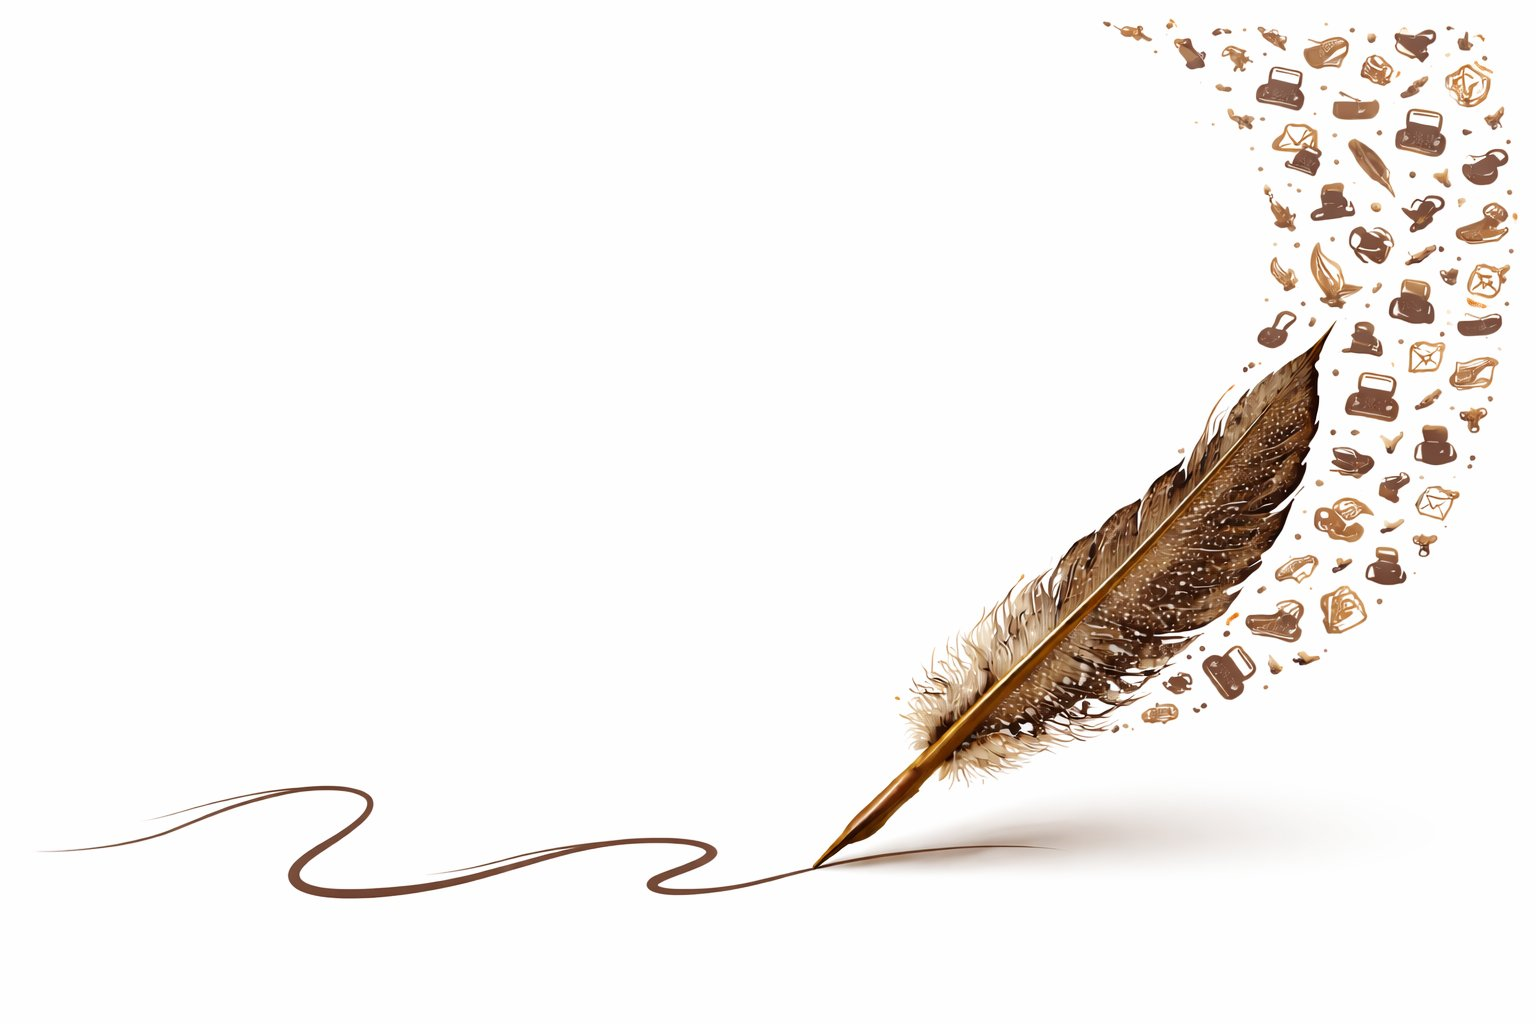
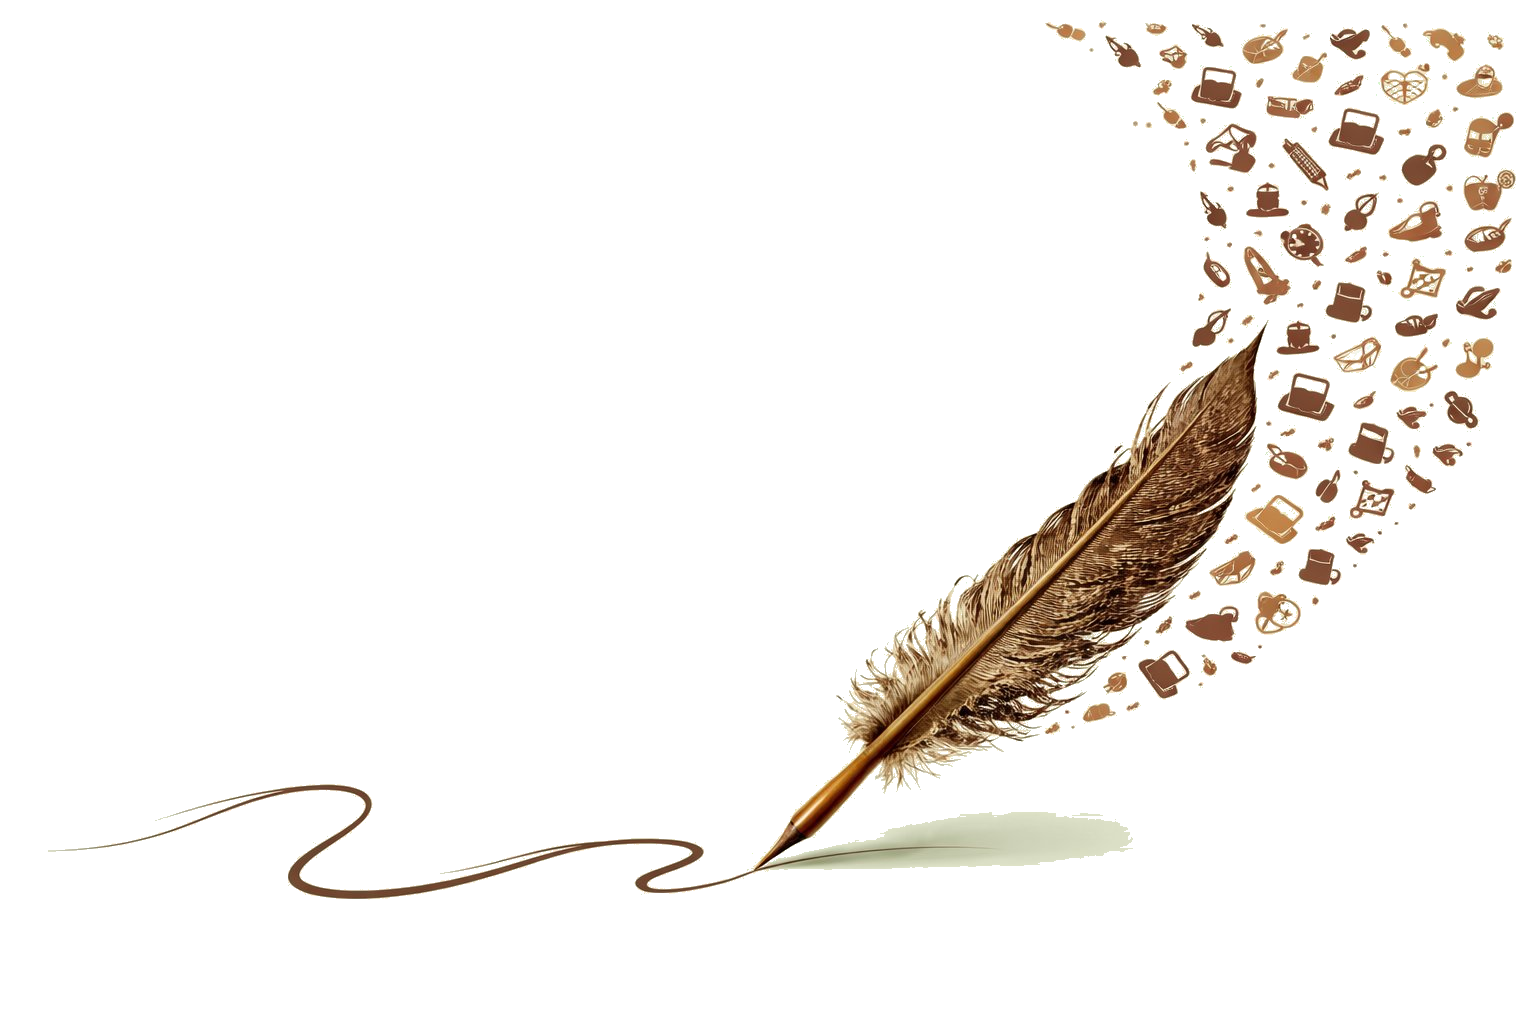
mise à jours

diff --git a/assets/styles.css b/assets/styles.css
@@ -1,33 +1,33 @@
 /* ============================================
    LA PLUME ARTISTE - Design Nature & Éditorial
-   Palette: Verts forêt, beige naturel, accents dorés
+   Palette: Verts olive/kaki, beige naturel
    Typographie: Cormorant Garamond (titres) + Source Sans 3 (corps)
    ============================================ */
 
 /* === Variables CSS === */
 :root {
-  /* Couleurs Nature */
-  --forest-deep: #1a3a2f;
-  --forest: #2f5233;
-  --forest-light: #4a7c59;
-  --sage: #87a878;
-  --sage-light: #b8d4a8;
+  /* Couleurs Olive/Kaki */
+  --forest-deep: #4a5d23;
+  --forest: #5c7a29;
+  --forest-light: #8cb32d;
+  --sage: #a4c639;
+  --sage-light: #d4e6a5;
   
-  /* Tons Terre */
-  --earth-dark: #5c4a3d;
-  --earth: #8B7355;
-  --earth-light: #c4a77d;
-  --gold: #c9a456;
-  --gold-light: #e8d4a8;
+  /* Tons Terre/Beige */
+  --earth-dark: #5c5a3d;
+  --earth: #8B8355;
+  --earth-light: #c4ba7d;
+  --gold: #a09456;
+  --gold-light: #e8e4a8;
   
   /* Neutres Naturels */
-  --cream: #fefefe;
-  --paper: #ffffff;
-  --linen: #fafafa;
-  --stone: #e8e4dc;
+  --cream: #ebf4d7;
+  --paper: #f2f7e5;
+  --linen: #ebf4d7;
+  --stone: #d5e0c2;
   --bark: #3d3d3d;
   --ink: #1a1a1a;
-  --muted: #6b6b6b;
+  --muted: #5a5a5a;
   
   /* Couleurs Suisse (pour accents) */
   --swiss-red: #d62828;
@@ -82,7 +82,7 @@ body {
   font-size: 16px;
   line-height: 1.7;
   color: var(--ink);
-  background-color: #fefefe;
+  background-color: #ebf4d7;
   background-image: url('bg-plume.png');
   background-repeat: no-repeat;
   background-position: right bottom;
@@ -109,7 +109,7 @@ body {
 @media (max-width: 768px) {
   body {
     background-image: none;
-    background-color: #fefefe;
+    background-color: #ebf4d7;
   }
 }
 
@@ -165,10 +165,10 @@ a:hover {
   position: sticky;
   top: 0;
   z-index: 100;
-  background: rgba(254, 254, 254, 0.95);
+  background: rgba(235, 244, 215, 0.95);
   backdrop-filter: blur(20px);
   -webkit-backdrop-filter: blur(20px);
-  border-bottom: 1px solid rgba(139, 115, 85, 0.15);
+  border-bottom: 1px solid rgba(92, 122, 41, 0.2);
 }
 
 .header-inner {
@@ -432,18 +432,18 @@ a:hover {
   align-items: center;
   gap: var(--space-sm);
   padding: var(--space-xs) var(--space-md);
-  background: linear-gradient(135deg, var(--gold-light), var(--earth-light));
+  background: linear-gradient(135deg, var(--sage-light), var(--sage));
   border-radius: 999px;
   font-size: 0.75rem;
   font-weight: 700;
   letter-spacing: 0.1em;
   text-transform: uppercase;
-  color: var(--earth-dark);
+  color: var(--forest-deep);
   margin-bottom: var(--space-lg);
 }
 
 .badge-icon {
-  color: var(--gold);
+  color: var(--forest);
 }
 
 .hero h1 {
@@ -587,10 +587,10 @@ a:hover {
   padding: var(--space-2xl) 0;
 }
 
-/* Fond blanc semi-transparent pour les sections principales */
+/* Fond pour les sections principales */
 .section-featured,
 .section-articles {
-  background: rgba(254, 254, 254, 0.85);
+  background: rgba(235, 244, 215, 0.9);
   margin: 0 -50vw;
   padding-left: 50vw;
   padding-right: 50vw;
@@ -611,7 +611,7 @@ a:hover {
   font-weight: 700;
   letter-spacing: 0.12em;
   text-transform: uppercase;
-  color: var(--gold);
+  color: var(--forest-light);
   margin-bottom: var(--space-xs);
 }
 
@@ -870,7 +870,7 @@ a:hover {
    ABOUT SECTION
    ============================================ */
 .section-about {
-  background: rgba(254, 254, 254, 0.9);
+  background: rgba(235, 244, 215, 0.95);
   padding: var(--space-3xl) 0;
 }
 

diff --git a/contact.html b/contact.html
@@ -109,7 +109,9 @@
                 </div>
                 <h3 style="color: white; margin: 0;">Charlotte Ollivier</h3>
               </div>
-              <p style="opacity: 0.9; margin: 0;">Journaliste en Herbe</p>
+              <p style="opacity: 0.9; margin: 0;">
+                <a href="mailto:charlotte.ollivier94@gmail.com" style="color: white; text-decoration: underline;">charlotte.ollivier94@gmail.com</a>
+              </p>
             </div>
 
             <!-- Réseaux sociaux -->
